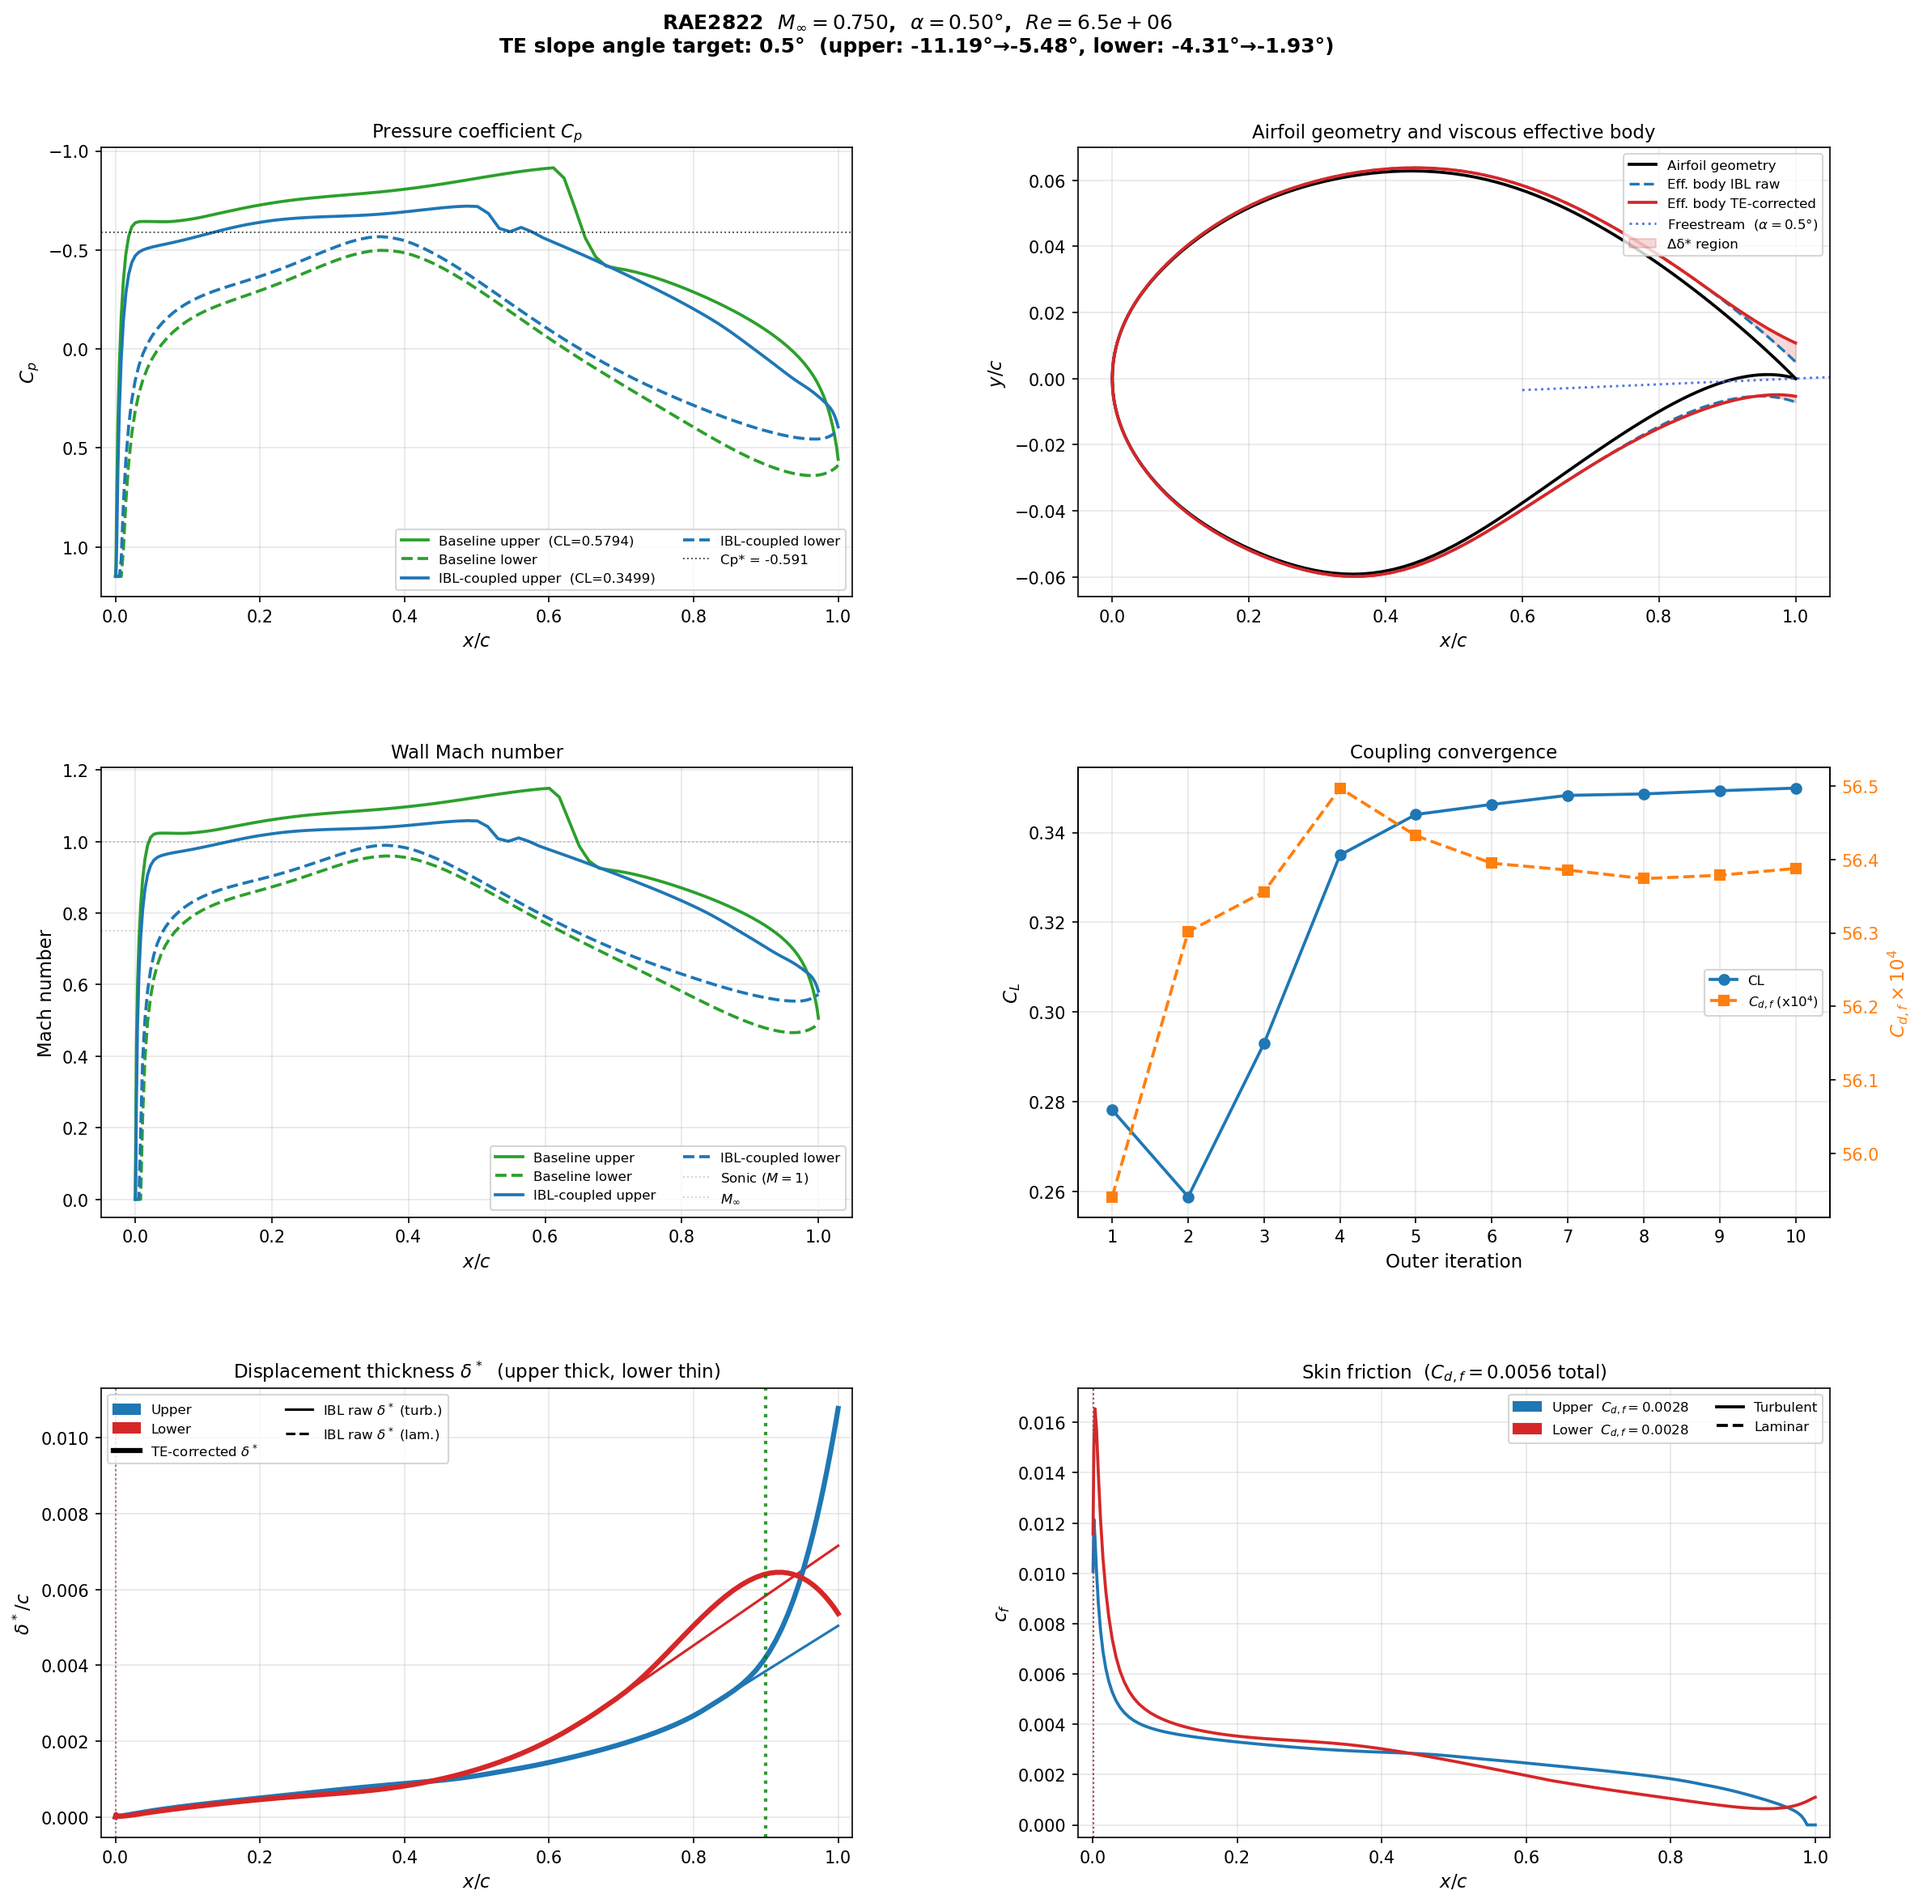
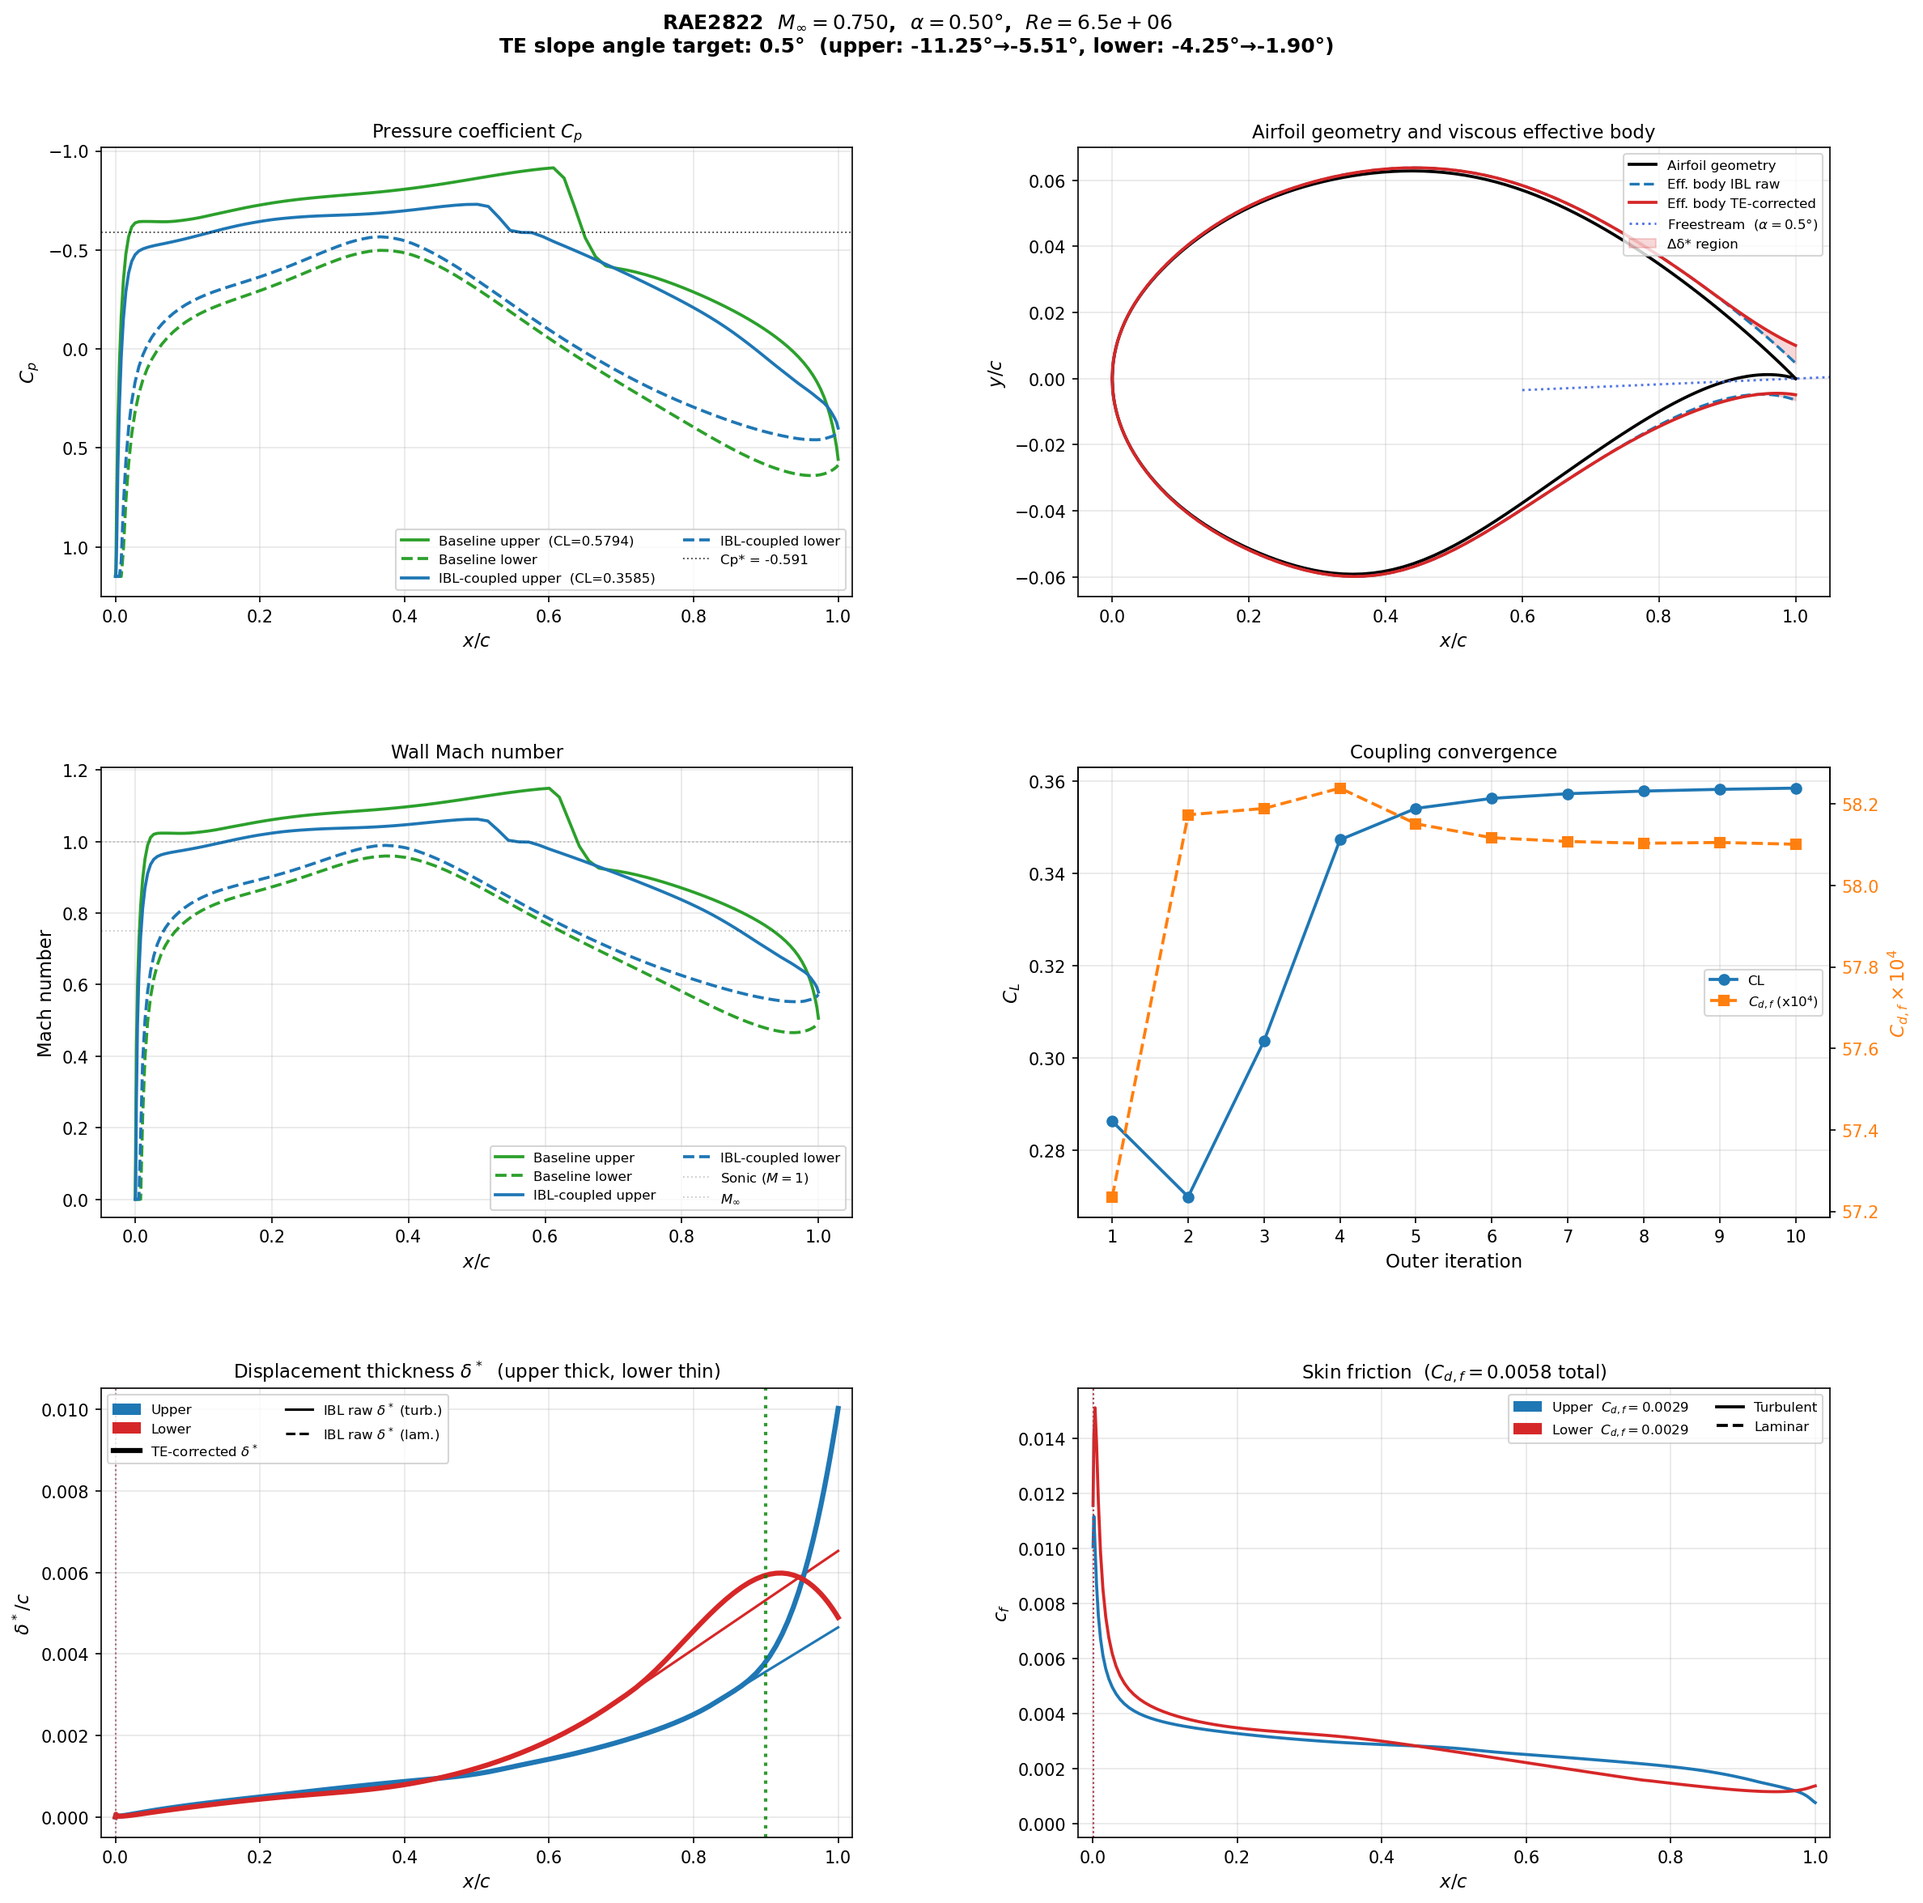
debug IBL Head's ODE, add a missing term

diff --git a/pytsfoil/ibl.py b/pytsfoil/ibl.py
@@ -585,8 +585,8 @@ class IBL(object):
         gradient; it reduces the streamtube-spreading rate and is O(0.5) at
         Me ≈ 0.7, so it is significant for transonic flow from pyTSFoil.
 
-        Head's entrainment ODE (second equation, unchanged):
-            d(H₁θ)/ds = 0.0306 · (H₁ - 3)^{-0.6169}
+        Head's entrainment ODE (second equation):
+            d(H₁θ)/ds = 0.0306 · (H₁ - 3)^{-0.6169} - (H₁θ/u_e) · du_e/ds
 
         Skin friction via Ludwieg-Tillmann:  cf = 0.246 · 10^{-0.678H} · Re_θ^{-0.268}
         Auxiliary relation H₁(H): Head (1958) two-branch formula.
@@ -639,7 +639,8 @@ class IBL(object):
             _cf   = self._ludwieg_tillmann(_H, _ue * th / nu)
             # Compressible von Kármán: (2 + H - Me²) instead of (2 + H)
             dth   = 0.5*_cf - (_H + 2.0 - _Me**2)*th/(_ue+1e-30)*_due
-            dH1th = 0.0306 * (H1 - 3.0)**(-0.6169)
+            # Head entrainment: d(θH₁)/ds = F(H₁) − (θH₁/ue)·due/ds
+            dH1th = 0.0306 * (H1 - 3.0)**(-0.6169) - H1th * _due / (_ue + 1e-30)
             return [dth, dH1th]
 
         sol = solve_ivp(rhs, [s_t[0], s_t[-1]], y0,
@@ -676,7 +677,8 @@ class IBL(object):
             th[i+1]   = max(th[i] + ds*(0.5*_cf
                             - (_H + 2.0 - me[i]**2)*th[i]/(ue[i]+1e-30)*due_ds[i]),
                             1e-10)
-            H1th[i+1] = H1th[i] + ds * 0.0306*(H1 - 3.0)**(-0.6169)
+            H1th[i+1] = H1th[i] + ds * (0.0306*(H1 - 3.0)**(-0.6169)
+                        - H1th[i] * due_ds[i] / (ue[i] + 1e-30))
         return th, H1th
 
     @staticmethod
